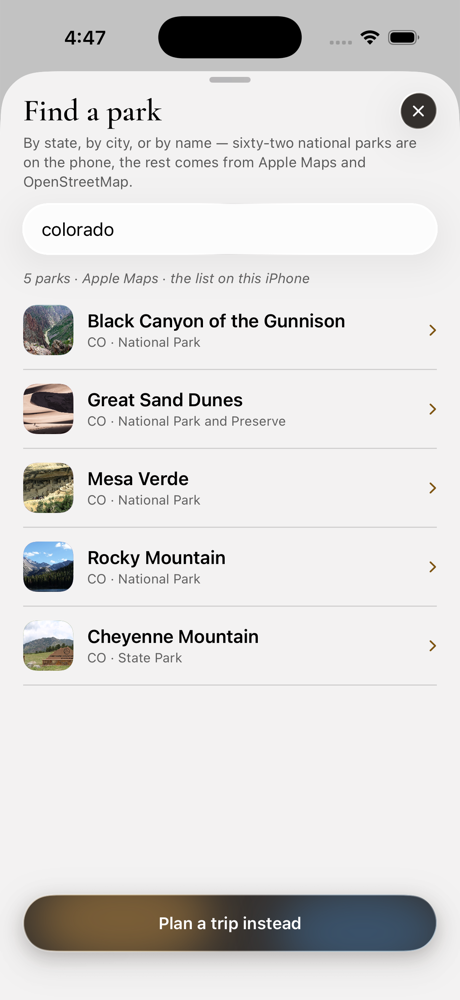
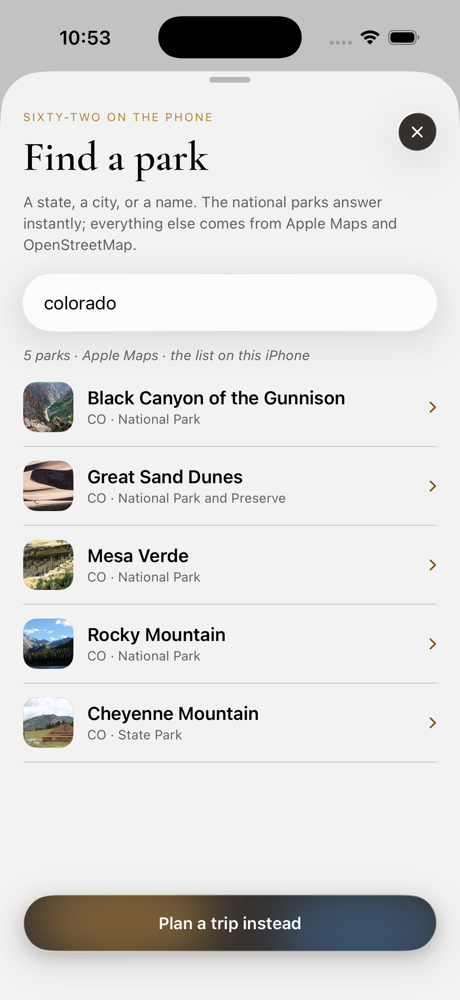
feat: the find-a-park sheet answers before it is asked (v2.13.2)
It opened as a cramped head over a blank page: a headline tight under the
drag indicator, a paragraph of explanation, a field, and then nothing at
all until something was typed.

The head starts lower now, with a kicker above it and the headline at 38
rather than 28, and the field is taller with room around it. The blank
page is the real change though — the sheet opens on the six national parks
nearest you, measured from the same fix the home screen uses, read off the
list on the phone. From Denver that is Rocky Mountain at 56 miles through
Wind Cave at 275, each with its photograph, before a key is pressed.

The sheet is also presented from `AppState` directly rather than through a
local mirror kept in step by `onChange` — which silently missed whenever
the state was set before the view had appeared, and was why launching
straight into it showed the home screen instead.

Changed region(s): [[0.0304, 0.093, 0.9435, 0.775], [0.1217, 0.031, 0.2435, 0.062]]

diff --git a/Waypost/Features/Today/QuickSearchSheet.swift b/Waypost/Features/Today/QuickSearchSheet.swift
@@ -32,9 +32,10 @@ struct QuickSearchSheet: View {
                 .textFieldStyle(.plain)
                 .autocorrectionDisabled()
                 .font(WP.body(16))
-                .padding(.horizontal, 16)
-                .frame(minHeight: 44)
+                .padding(.horizontal, 18)
+                .frame(minHeight: 50)
                 .liquidGlass(.pill, radius: 999)
+                .shadow(color: Color(hex: 0x181008, opacity: 0.06), radius: 10, y: 4)
                 .focused($focused)
                 .submitLabel(.search)
                 .padding(.horizontal, WP.gutter)
@@ -45,6 +46,10 @@ struct QuickSearchSheet: View {
 
             ScrollView(.vertical) {
                 VStack(alignment: .leading, spacing: 0) {
+                    if query.isEmpty {
+                        nearYou
+                    }
+
                     if !suggestions.isEmpty, results.isEmpty {
                         SuggestionList(items: suggestions) { suggestion in
                             query = suggestion.query
@@ -88,25 +93,89 @@ struct QuickSearchSheet: View {
     }
 
     private var header: some View {
-        VStack(alignment: .leading, spacing: 4) {
-            HStack {
-                Text("Find a park").font(WP.display(28))
-                Spacer(minLength: 0)
+        VStack(alignment: .leading, spacing: 0) {
+            HStack(alignment: .top) {
+                VStack(alignment: .leading, spacing: 7) {
+                    Kicker(text: "Sixty-two on the phone")
+                    Text("Find a park")
+                        .font(WP.display(38))
+                        .lineLimit(1)
+                        .minimumScaleFactor(0.8)
+                }
+                Spacer(minLength: 12)
                 Button { dismiss() } label: {
                     Image(systemName: "xmark")
                         .font(.system(size: 12, weight: .semibold))
-                        .frame(width: 32, height: 32)
+                        .frame(width: 34, height: 34)
                         .glassControl(shadow: false)
                 }
                 .buttonStyle(PressStyle(scale: 0.92))
+                .padding(.top, 2)
             }
-            Text("By state, by city, or by name — sixty-two national parks are on the phone, the rest comes from Apple Maps and OpenStreetMap.")
-                .font(WP.body(12.5)).opacity(0.62).lineSpacing(2)
+
+            Text("A state, a city, or a name. The national parks answer instantly; everything else comes from Apple Maps and OpenStreetMap.")
+                .font(WP.body(13)).opacity(0.6).lineSpacing(3)
                 .fixedSize(horizontal: false, vertical: true)
+                .padding(.top, 10)
+                .padding(.trailing, 24)
         }
         .padding(.horizontal, WP.gutter)
-        .padding(.top, 18)
-        .padding(.bottom, 12)
+        // Below the drag indicator rather than under it: a sheet that starts at the very
+        // top reads as a page that was cut off.
+        .padding(.top, 34)
+        .padding(.bottom, 18)
+    }
+
+    /// What is closest, before a word has been typed.
+    ///
+    /// The sheet used to open on a blank page under a field, which is a question with no
+    /// hint at the answer. These come from the list on the phone, measured from the same
+    /// fix the home screen uses, so they need no network and appear with the sheet.
+    @ViewBuilder
+    private var nearYou: some View {
+        let fix = app.recommender.fix
+        let parks = fix.map { NationalParks.near(lat: $0.lat, lon: $0.lon, limit: 6) } ?? []
+
+        if !parks.isEmpty {
+            HStack(spacing: 7) {
+                Image(systemName: "location.fill")
+                    .font(.system(size: 9))
+                    .foregroundStyle(WP.accent700)
+                Text((app.recommender.placeName.map { "Nearest to \($0)" } ?? "Nearest to you").uppercased())
+                    .font(WP.body(10)).tracking(1.4).opacity(0.55)
+                Rectangle().fill(WP.divider).frame(height: 1)
+            }
+            .padding(.top, 22)
+            .padding(.bottom, 6)
+
+            ForEach(parks, id: \.park.code) { entry in
+                let park = CuratedPark(bundled: entry.park)
+                Button {
+                    dismiss()
+                    app.openPark(park.code)
+                } label: {
+                    DividedRow(vertical: 12) {
+                        HStack(spacing: 12) {
+                            ParkImage(park: park, showsScrim: false, topLight: false)
+                                .frame(width: 44, height: 44)
+                                .clipShape(RoundedRectangle(cornerRadius: 12, style: .continuous))
+                            VStack(alignment: .leading, spacing: 2) {
+                                Text(park.name).font(WP.rowTitle(16))
+                                Text([park.state, park.designationLabel]
+                                        .filter { !$0.isEmpty }.joined(separator: " · "))
+                                    .font(WP.body(11.5)).opacity(0.6)
+                            }
+                            Spacer(minLength: 0)
+                            Text("\(entry.miles) mi").font(WP.body(11.5)).opacity(0.55).tnum()
+                            Image(systemName: "chevron.right")
+                                .font(.system(size: 11, weight: .semibold))
+                                .foregroundStyle(WP.accent700)
+                        }
+                    }
+                }
+                .buttonStyle(PressStyle(scale: 0.995))
+            }
+        }
     }
 
     private var note: String {

diff --git a/Waypost/Features/Today/TodayScreen.swift b/Waypost/Features/Today/TodayScreen.swift
@@ -9,9 +9,6 @@ import SwiftUI
 struct TodayScreen: View {
     @Environment(AppState.self) private var app
 
-    /// The `+` opens a search rather than the trip builder: the first question anybody
-    /// has is where to go, not how many nights.
-    @State private var showsSearch = false
 
     var body: some View {
         VStack(spacing: 0) {
@@ -38,8 +35,8 @@ struct TodayScreen: View {
             .scrollIndicators(.hidden)
             .captureScrollPosition()
         }
-        .onChange(of: app.showsQuickSearch) { _, wanted in showsSearch = wanted }
-        .sheet(isPresented: $showsSearch) {
+        .sheet(isPresented: Binding(get: { app.showsQuickSearch },
+                                    set: { app.showsQuickSearch = $0 })) {
             QuickSearchSheet()
                 .presentationDetents([.large])
                 .presentationDragIndicator(.visible)
@@ -65,7 +62,7 @@ struct TodayScreen: View {
             Spacer(minLength: 0)
 
             Button {
-                showsSearch = true
+                app.showsQuickSearch = true
             } label: {
                 Image(systemName: "plus")
                     .font(.system(size: 19, weight: .medium))

diff --git a/Waypost/Features/Trips/TripsScreen.swift b/Waypost/Features/Trips/TripsScreen.swift
@@ -5,9 +5,6 @@ import SwiftUI
 struct TripsScreen: View {
     @Environment(AppState.self) private var app
 
-    /// The `+` opens the same search the home screen's does — a state, a city or a park
-    /// — with starting a trip one tap further in.
-    @State private var showsSearch = false
 
     var body: some View {
         VStack(spacing: 0) {
@@ -92,8 +89,8 @@ struct TripsScreen: View {
             .scrollIndicators(.hidden)
             .captureScrollPosition()
         }
-        .onChange(of: app.showsQuickSearch) { _, wanted in showsSearch = wanted }
-        .sheet(isPresented: $showsSearch) {
+        .sheet(isPresented: Binding(get: { app.showsQuickSearch },
+                                    set: { app.showsQuickSearch = $0 })) {
             QuickSearchSheet()
                 .presentationDetents([.large])
                 .presentationDragIndicator(.visible)
@@ -102,7 +99,7 @@ struct TripsScreen: View {
 
     private var newTripButton: some View {
         Button {
-            showsSearch = true
+            app.showsQuickSearch = true
         } label: {
             ZStack {
                 WP.ink

diff --git a/docs/changed.v.1/README.md b/docs/changed.v.1/README.md
@@ -53,6 +53,13 @@ with the same suggestions and the same live directory the Discover screen uses. 
 carries the park's photograph, its state and its designation, and opens the park. Starting
 a trip is still there, at the bottom, as one tap rather than the only tap.
 
+**Reworked once more** after the first pass looked cramped and empty. The head starts
+below the drag indicator rather than under it, the headline is Cormorant at 38 rather than
+28, with a kicker over it and air around it, and the field is taller. More to the point,
+an empty field is no longer an empty page: the sheet opens on the six national parks
+nearest you, measured from the same fix the home screen uses, off the list on the phone —
+so it answers before it is asked. See **A1.1.1**.
+
 ### 4. No more opening on Zion or Arches
 
 **Before** — the hero showed whichever park the seed trip was in — Arches on day five —
